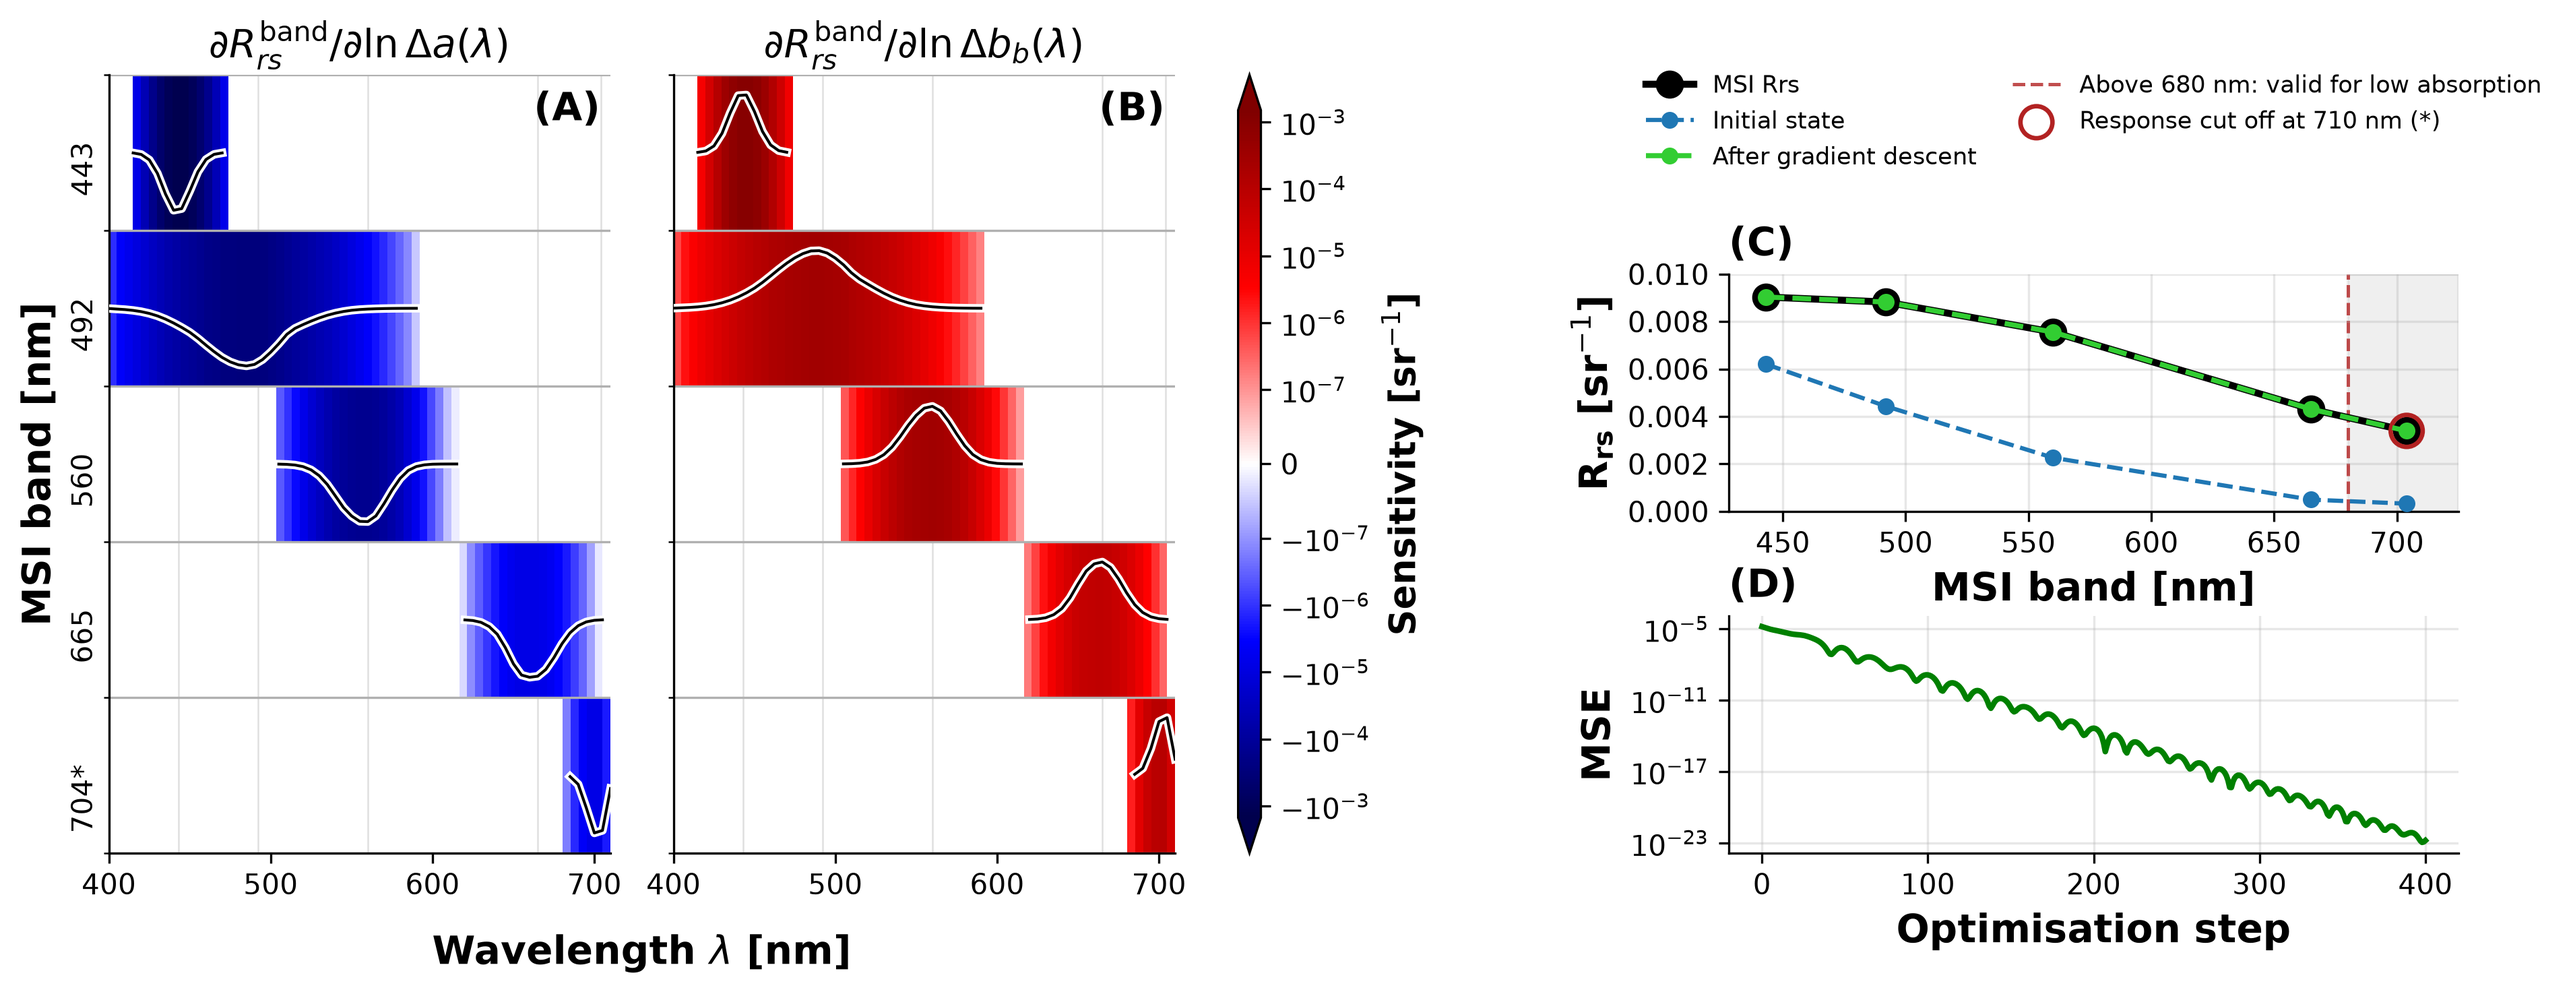
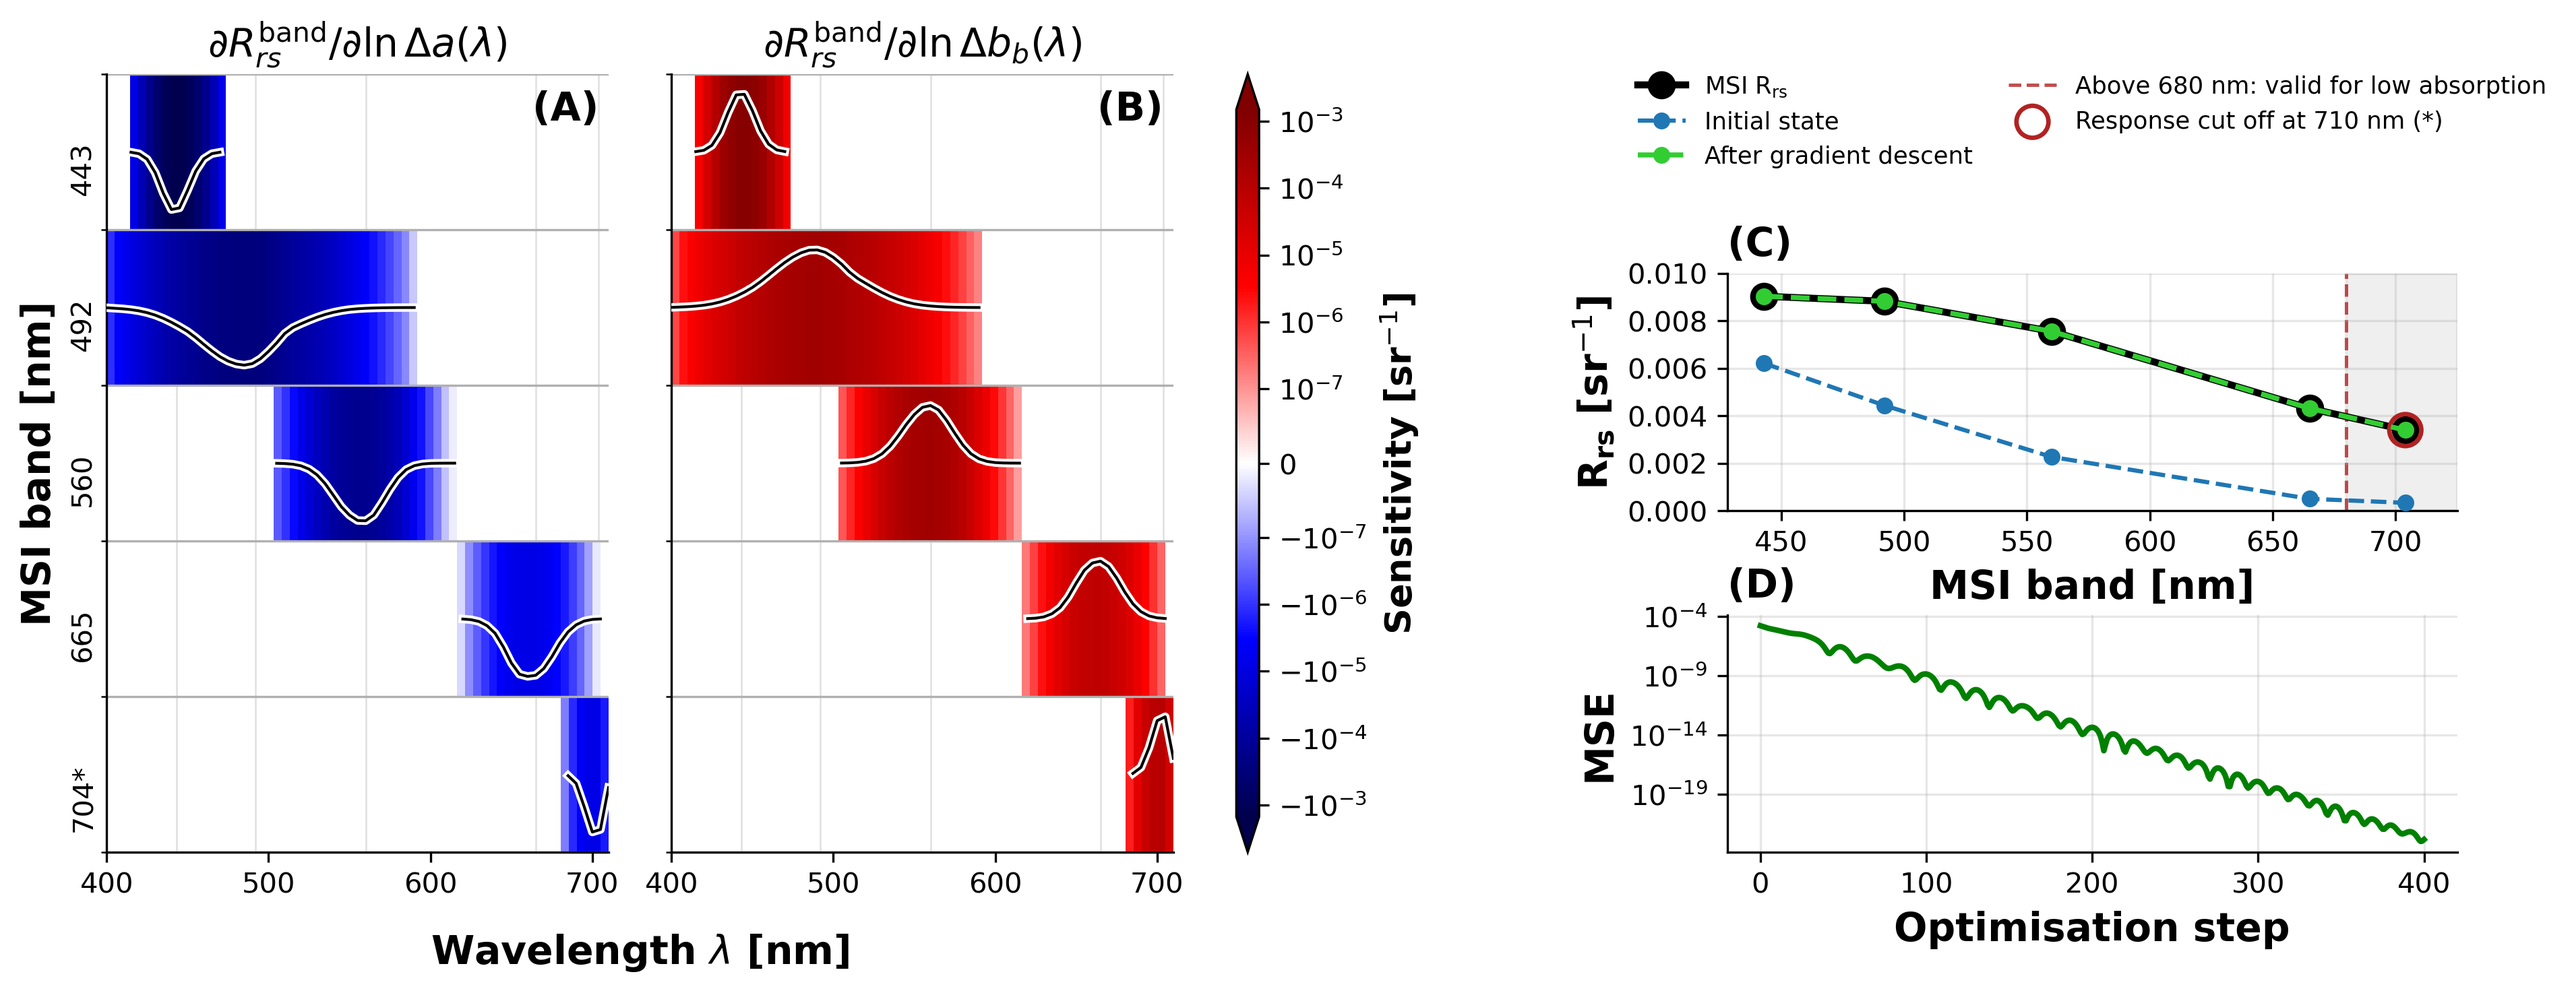
Write R_rs with a subscript in the example legend

diff --git a/examples/msi_gradient_inversion.py b/examples/msi_gradient_inversion.py
@@ -428,7 +428,7 @@ def plot_results(median_jacobian, support, fine_wl, bands, observed,
 
     axis_fit = figure.add_subplot(right_grid[1])
     axis_fit.plot(band_wl, np.asarray(observed), 'o-', color='black', markersize=9,
-                  linewidth=2.5, label='MSI Rrs', zorder=3)
+                  linewidth=2.5, label=r'MSI R$_{\mathrm{rs}}$', zorder=3)
     axis_fit.plot(band_wl, np.asarray(predicted_initial), 'o--', color='tab:blue',
                   markersize=5, label='Initial state', zorder=4)
     axis_fit.plot(band_wl, np.asarray(predicted_final), 'o--', color='limegreen',
